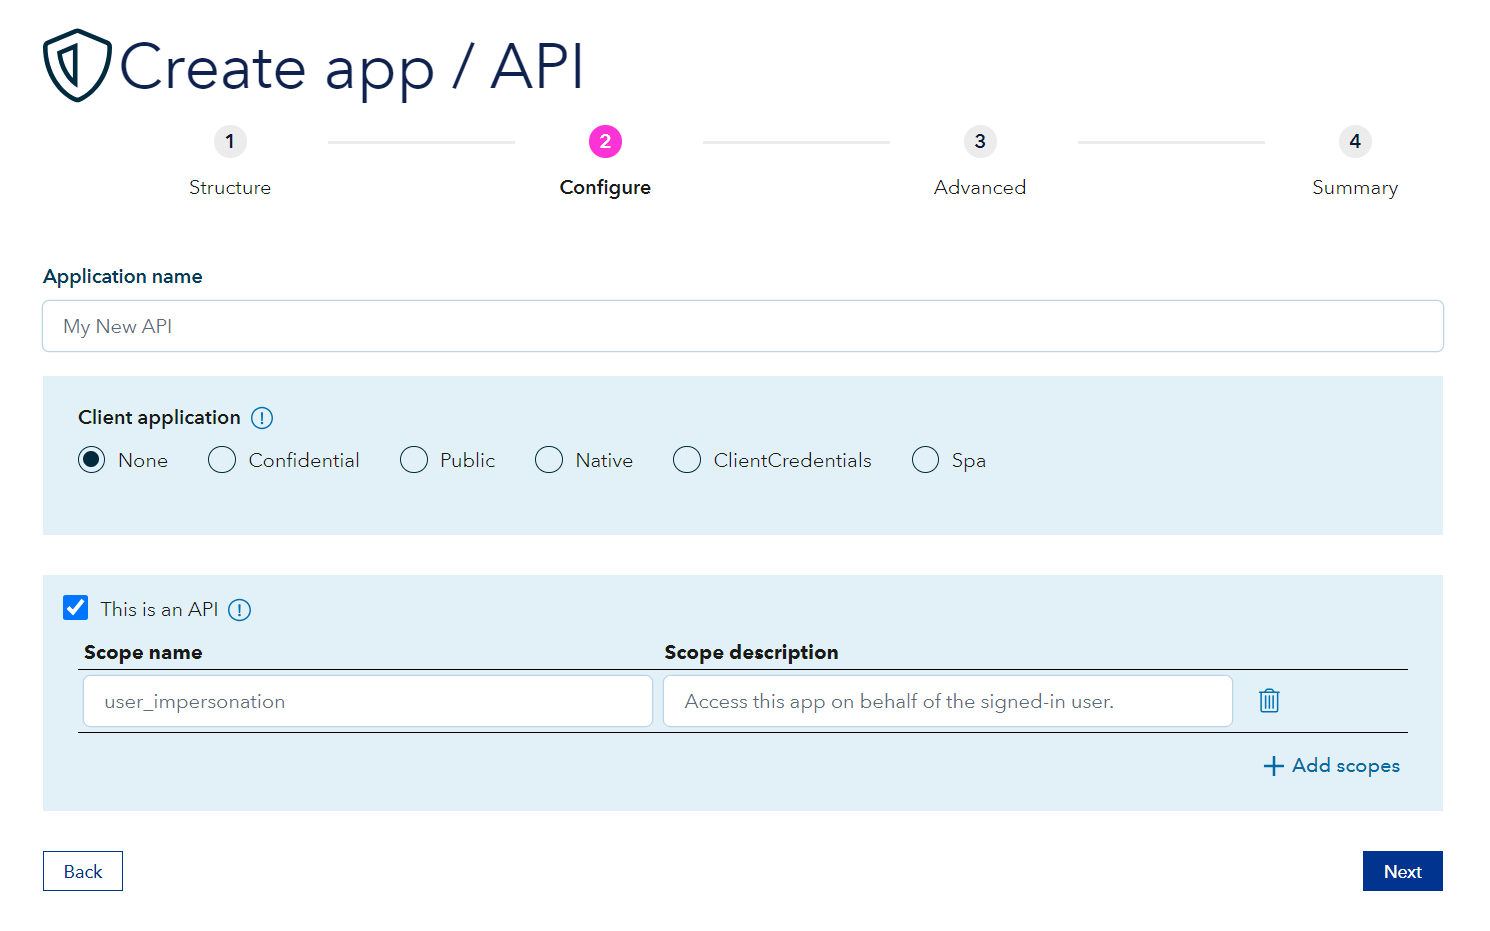
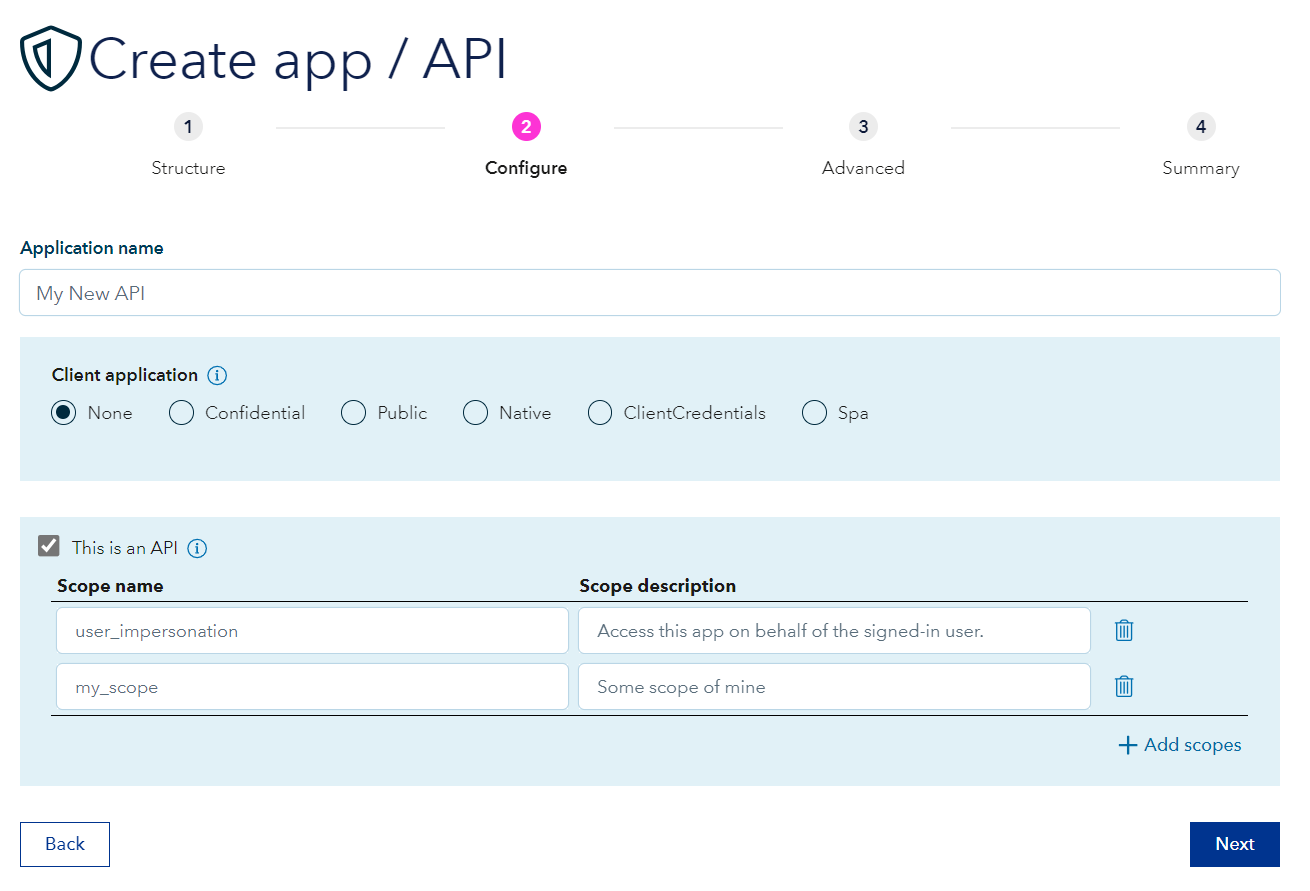
Instructions for MS libraries

diff --git a/sections/identity/client-credentials-api-access/5-validating-cc-token.md b/sections/identity/client-credentials-api-access/5-validating-cc-token.md
@@ -9,160 +9,64 @@ description: Validating access token in your API in C#
 
 This tutorial will help you build a Client Credentials validator in your .NET 6 API. Note that all code samples are for C#.
 
-First we need to declare a class that inherits from `AuthenticationSchemeOptions`:
+First we need to create a simple **ASP.NET Core Web API** project in Visual Studio:
 
-```
-using Microsoft.AspNetCore.Authentication;
-using System.Security.Claims;
+<figure>
+	<img src="assets/ccapi-step-6-make-an-api.png"/>
+	<figcaption>The project type ASP.NET Core Web API can be found among other templates</figcaption>
+</figure>
 
-...
+This template gives us a bare bones API, an unprotected API Controller with an example action that returns some data. Exactly what we need to test our token!
 
-public class MyAuthenticationOptions : AuthenticationSchemeOptions
-{
-    public ClaimsIdentity Identity { get; set; } = default!;
+Inside the `appsettings.json` file add the following section:
+
+```json
+"AzureAdB2C": {
+  "Domain": "dnvglb2cprod.onmicrosoft.com",
+  "Instance": "https://login.veracity.com",
+  "SignUpSignInPolicyId": "B2C_1A_SignInWithADFSIdp",
+  "TenantId": "a68572e3-63ce-4bc1-acdc-b64943502e9d",
+  "ClientId": "{your client ID}",
+  "ClientSecret": "{your client secret}",
+  "Scopes": "https://dnvglb2cprod.onmicrosoft.com/{App ID}/{my_scope}"
 }
 ```
 
-Then we need to declare a class that inherits from `AuthenticationHandler`:
+Although, we used .default scope when asking for token, we still configure our API with the scope you chose when configuring it in [developer.veracity.com](https://developer.veracity.com/).
 
-```
-public class MyAuthenticationHandler : AuthenticationHandler<MyAuthenticationOptions>
-{
-    public MyAuthenticationHandler(
-        IOptionsMonitor<MyAuthenticationOptions> options,
-        ILoggerFactory logger,
-        UrlEncoder encoder,
-        ISystemClock clock) : base(options, logger, encoder, clock)
-    {
-    }
- 
-    protected override Task<AuthenticateResult> HandleAuthenticateAsync() 
-        => Task.FromResult(Authenticate());
-}
+You can find there all the variables you need. Both `Client ID` and `App ID` point to the `App / Api ID` you can find in the Settings tab. 
+
+In the Program.cs file add this code
+
+```csharp
+builder.Services.AddAuthentication(JwtBearerDefaults.AuthenticationScheme)
+	.AddMicrosoftIdentityWebApi(options => { }, options =>
+	{
+        builder.Configuration.GetRequiredSection("AzureAdB2C").Bind(options);
+	});
 ```
 
-Next we will implement the `Authenticate()` method:
+Place it before this line.
 
-```
-using Microsoft.AspNetCore.Authentication;
-
-...
-
-private AuthenticateResult Authenticate()
-{
-    try
-    {
-        // First we need to extract the Bearer token from the headers
-        // (for logic check below to see the implementation of the 
-        // ExtractBearerToken method)
-        var rawToken = ExtractBearerToken(Request.Headers["authorization"]);
-        if (string.IsNullOrWhiteSpace(rawToken))
-            return AuthenticateResult.Fail("Authorization header not provided");
-
-        // Next, we validate the token. For the purpose of clarity 
-        // it was extracted to a separate method
-        var tokenValidationResult = Validate(rawToken.Value);
-
-        if (tokenValidationResult == null)
-            return AuthenticateResult.Fail("Authorization failed: ");
-
-        var ticket = new AuthenticationTicket(tokenValidationResult.Value, new AuthenticationProperties(), Scheme.Name);
-
-        return AuthenticateResult.Success(ticket);
-    }
-    catch (Exception e)
-    {
-        return AuthenticateResult.Fail(e);
-    }
-}
-
-// This method verifies that the Authorization header is properly formed
-// and then extracts the token itself
-private static string ExtractBearerToken(string authorizationHeader)
-{
-    if (string.IsNullOrWhiteSpace(authorizationHeader) || !authorizationHeader.StartsWith("Bearer "))
-        return string.Empty;
-
-    var bearerToken = authorizationHeader.Replace("Bearer ", string.Empty, StringComparison.OrdinalIgnoreCase);
-    return bearerToken;
-}
+```csharp
+var app = builder.Build();
 ```
 
-To validate the token we will use the Stardust NuGet package which is made by Veracity developers. The main logic for validating a token is within the Validate method which you can see below:
+Make sure that you have
 
-```
-using Stardust.Aadb2c.AuthenticationFilter.Core;
-using Stardust.Particles;
-
-...
-
-private ClaimsPrincipal? Validate(string rawToken)
-{
-    B2CGlobalConfiguration.ValidIssuer = configuration.Issuer;
-    B2CGlobalConfiguration.Audience = configuration.Audience;
-    B2CGlobalConfiguration.AadTenants = new[] { configuration.OpenIDConfiguration };
-    B2CGlobalConfiguration.AllowClientCredentialsOverV2 = true;
-    ConfigurationManagerHelper.SetValueOnKey("certificateRefresInterval", "30");
-    ClaimsPrincipal authenticatedUser;
-
-    try
-    {
-        authenticatedUser = TokenValidator.Validate(rawToken);
-
-        return authenticatedUser;
-    }
-    catch (Exception ex)
-    {
-        // log exception
-
-        return null;
-    }
-}
+```csharp
+app.UseAuthorization();
 ```
 
-In this code we used an object named `configuration` in which we stored some values. This is where you can get them:
+Preferably before
 
-|Variable|Where to get it|
-|--|--|
-|Issuer|`https://login.microsoftonline.com/{tenant}/v2.0/;https://dnvglb2cprod.b2clogin.com/{tenant}/v2.0/;https://login.veracity.com/{tenant}/v2.0/`|
-|Audience|`{appId}`. In the settings tab inside of Veracity Resource.|
-|OpenIDConfiguration|`https://login.veracity.com/{tenant}/v2.0/.well-known/openid-configuration?p=B2C_1A_SignInWithADFSIdp`|
-
-All these classes should now be declared in the `Program.cs` class. To make it more readable I suggest to create it as an extension method declated in a separate class:
-
-```
-internal static class AuthorizationExtensions
-{
-    const string AuthenticationDefaultScheme = "DefaultScheme";
-
-    public static void SetupAuthorization(this WebApplicationBuilder builder)
-    {
-        builder.Services
-            .AddAuthentication(options =>
-            {
-                options.DefaultAuthenticateScheme = JwtBearerDefaults.AuthenticationScheme;
-                options.DefaultChallengeScheme = JwtBearerDefaults.AuthenticationScheme;
-                options.DefaultScheme = JwtBearerDefaults.AuthenticationScheme;
-            })
-            .AddScheme<MyAuthenticationOptions, MyAuthenticationHandler>(JwtBearerDefaults.AuthenticationScheme, string.Empty, o => { });
-
-        builder.Services.AddAuthorization(x =>
-        {
-            x.AddPolicy(
-                AuthenticationDefaultScheme,
-                policyBuilder => policyBuilder.RequireAuthenticatedUser());
-        });
-    }
-}
+```csharp
+app.MapControllers();
 ```
 
-And then simply using it:
+The only thing you need to do now is to place the `[Authorize]` attribute next to an action or a controller. The test API we just created provides you with `WeatherForecastController` which you can adjust for your testing purposes.
 
-```
-builder.SetupAuthorization();
-```
-
-All of the above code will help you validate the Client Credentials token, but it will only test the validity of the token based on the provided data (issuer, audience, OpenIDConfiguration, etc.). At this point, **it's good to implement authorization and check what can the given appId do, and what it can't, as this is something that should be implemented on the side of your API**.
+Now when you will call the `/weatherforecast` endpoint will throw a `401 Unauthorized` result. In order to be authorized you need to add an `Authorization` header with the value `Bearer {token}` where in place of `{token}` you place the access token acquired in the previous step.
 
 ---
 

diff --git a/sections/identity/client-credentials-api-access/2-api-creation-in-veracity.md b/sections/identity/client-credentials-api-access/2-api-creation-in-veracity.md
@@ -25,27 +25,29 @@ description: Creating an API in Veracity Developer Portal
 
 <figure>
 	<img src="assets/ccapi-step-3-fill-in-resource-group.png"/>
-	<figcaption>Select project and resource group of the resource to be created.</figcaption>
+	<figcaption>Select project and resource group where your API will be created.</figcaption>
 </figure>
 
 ## Configure your API
 
 <figure>
 	<img src="assets/ccapi-step-4-configure-your-API.png"/>
-	<figcaption>Write the API name under **Application name**.</figcaption>
+	<figcaption>Next is the Configure step</figcaption>
 </figure>
+
+Write the API name under **Application name**.
 
 For client application leave None.
 
 Check the "This is an API" checkbox.
 
-If you need to, add scopes.
+We suggest that you add a **my_scope** scope as we will use it further on.
 
 ## Advanced tab
 
 <figure>
 	<img src="assets/ccapi-step-5-advanced-tab.png"/>
-	<figcaption>If you have created a client application earlier you can add them here.</figcaption>
+	<figcaption>If you have created a client application earlier you can add them here. We will add them in the next step.</figcaption>
 </figure>
 
 ## Summary
@@ -56,10 +58,12 @@ Once finished, you will be redirected to your resource, where you can edit any d
 
 <figure>
 	<img src="assets/ccapi-summary-settings-tab.png"/>
-	<figcaption>In the Settings tab you can find your API's ID under **App / Api ID**, and also **Subscriptions keys** and **Scopes**.</figcaption>
+	<figcaption>In the Settings tab you will find the data needed to configure your API</figcaption>
 </figure>
 
-Next up, we will configure a client application that will call to this API.
+ You can find your API's ID under **App / Api ID**, and also **Subscriptions keys** and **Scopes**.
+
+Next up, we will configure a client application in Veracity that will call to this API.
 
 ---
 

diff --git a/sections/identity/client-credentials-api-access/4-msal-access-token.md b/sections/identity/client-credentials-api-access/4-msal-access-token.md
@@ -20,9 +20,9 @@ using Microsoft.Identity.Client;
 
 ...
 
-await ConfidentialClientApplicationBuilder.Create(appId)
+await ConfidentialClientApplicationBuilder.Create(clientId)
     .WithClientSecret(clientSecret)
-    .WithB2CAuthority(instance)
+	.WithAuthority(authority)
     .Build()
     .AcquireTokenForClient(scopes)
     .ExecuteAsync();
@@ -32,10 +32,10 @@ Where the used variables are:
 
 |Variable|Where to get it|
 |--|--|
-|appId|In the settings tab inside of Veracity Resource|
-|clientSecret|In the settings tab inside of Veracity Resource. You can generate more than one, but it can be saved by you only on creation. |
-|instance|Is composed of: `https://dnvglb2cprod.b2clogin.com/tfp/{tenant}/b2c_1a_signinwithadfsidp/` remember to replace `{tenant}` with the proper value.|
-|scopes|`https://dnvglb2cprod.onmicrosoft.com/{appId}/.default`, where you replace `{appId}` with the mentioned before appId from Veracity Developer Portal|
+|clientId|In the Settings tab inside of your client application in developer.veracity.com|
+|clientSecret|In the Settings tab inside of your client application in developer.veracity.com. You can generate more than one, but it can be saved by you only on creation.|
+|authority|`https://login.veracity.com/tfp/a68572e3-63ce-4bc1-acdc-b64943502e9d/B2C_1A_SignInWithADFSIdp/v2.0`|
+|scopes|`https://dnvglb2cprod.onmicrosoft.com/{API_ID}/.default`, where you replace `{API_ID}` with the `App / Api ID` from your API's Settings tab in developer.veracity.com. Although we set up a `my_scope` scope, in order to get the token we still write `.default`|
 
 The following code returns an object of `Task<AuthenticationResult>`. AuthenticationResult has a property of AccessToken which will serve as the token you will send to your API.
 

diff --git a/sections/identity/client-credentials-api-access/3-client-creation-in-veracity.md b/sections/identity/client-credentials-api-access/3-client-creation-in-veracity.md
@@ -31,8 +31,10 @@ description: Configuring Client application in Veracity
 
 <figure>
 	<img src="assets/cc-client-step-4-configure-your-client.png"/>
-	<figcaption>Write the application name under **Application name**.</figcaption>
+	<figcaption>Next is the Configure step</figcaption>
 </figure>
+
+Write the application name under **Application name**.
 
 For client application check Client Credentials.
 
@@ -53,7 +55,7 @@ Once finished, you will be redirected to your resource, where you can edit any d
 
 <figure>
 	<img src="assets/cc-client-step-6-summary.png"/>
-	<figcaption>In the Settings tab you can find your API's ID under **App / Api ID**, and also **Subscriptions keys** and **Scopes**.</figcaption>
+	<figcaption>In the Settings tab you can find the data needed to configure your client application.</figcaption>
 </figure>
 
 From this part of the screen you should note:
